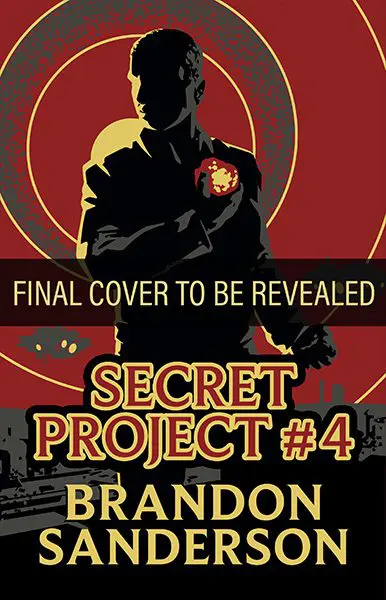
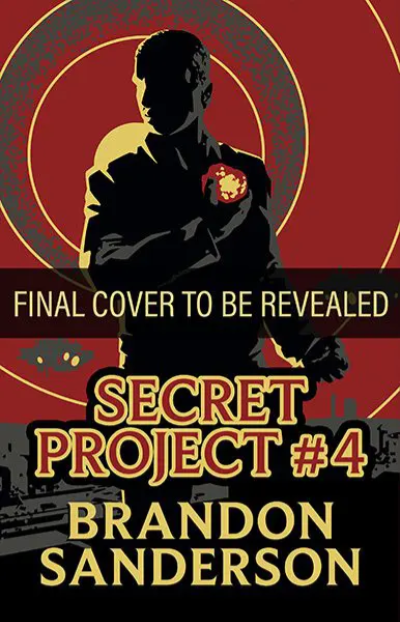
fix img sizes

diff --git a/src/books/tsa_03b_dawnshard.md b/src/books/tsa_03b_dawnshard.md
@@ -2,7 +2,7 @@
 title: Dawnshard
 permalink: '/books/thestormlightarchives/{{ title | slugify }}/'
 description:
-cover: assets/images/books/tsa_03b_dawnshard_cover.jpg
+cover: assets/images/books/tsa_03b_dawnshard_cover.png
 bookorder: Stormlight Archives Novella 2
 tags:
   - Book

diff --git a/src/books/shortfiction_03_snapshot.md b/src/books/shortfiction_03_snapshot.md
@@ -2,7 +2,7 @@
 title: Snapshot
 permalink: '/books/short-fiction-non-cosmere/{{ title | slugify }}/'
 description:
-cover: assets/images/books/sf_snapshot_dragonsteel_edition.jpg
+cover: assets/images/books/sf_snapshot_dragonsteel_edition.png
 bookorder:
 tags:
   - Book

diff --git a/src/books/reckoners_04_calamity.md b/src/books/reckoners_04_calamity.md
@@ -2,7 +2,7 @@
 title: Calamity
 permalink: '/books/reckoners/{{ title | slugify }}/'
 description:
-cover: assets/images/books/reckoners_calamity_us_hardcover.jpg
+cover: assets/images/books/reckoners_calamity_us_hardcover.png
 bookorder:
 tags:
   - Book
